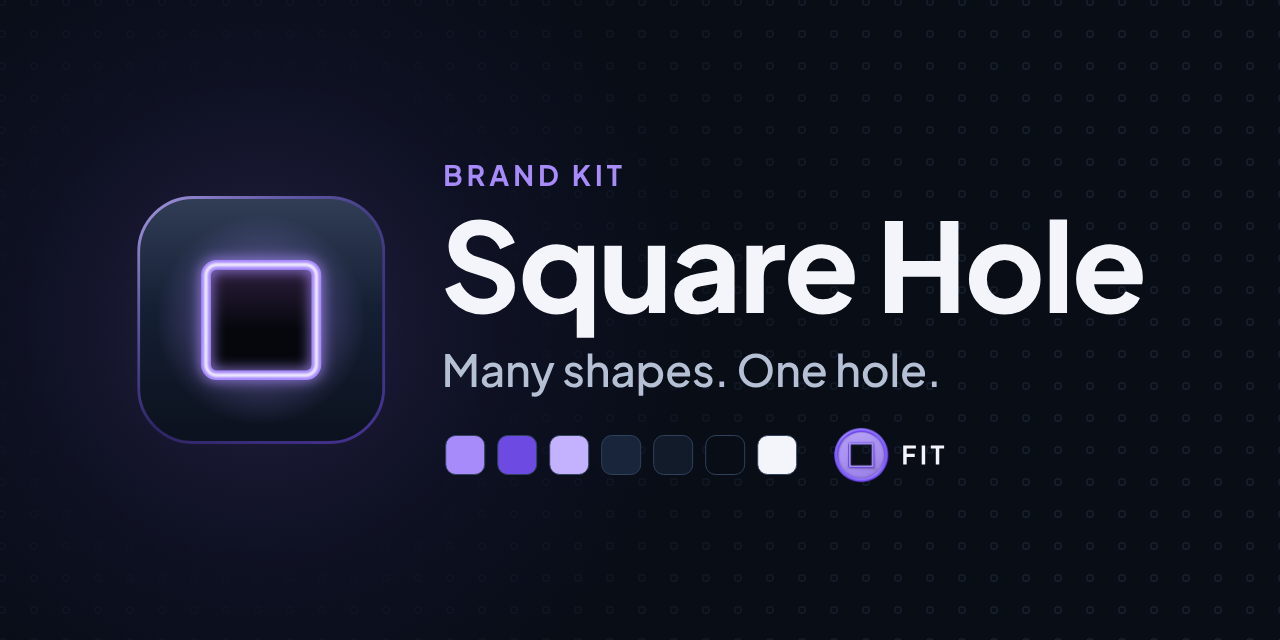
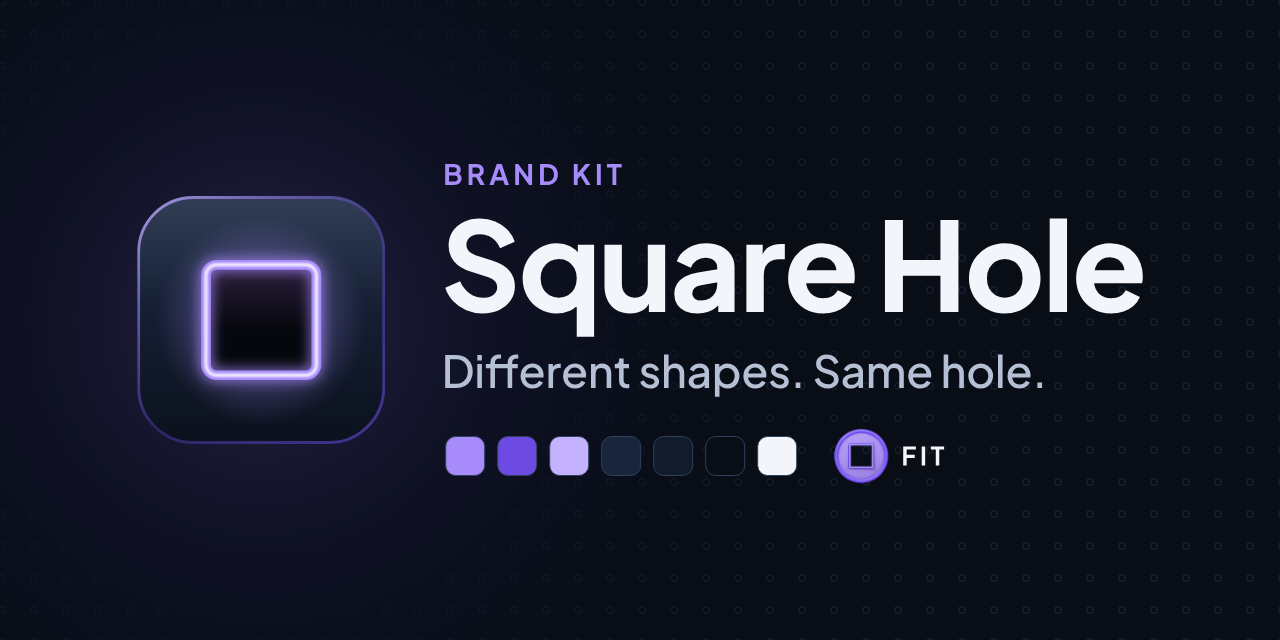
feat: one tagline, "Different shapes. Same hole."
Drops the alternate "Many shapes. One hole." from the brand guide, the notice,
the outlined text and the branding repo's social preview (re-rendered).

diff --git a/scripts/outline_text.py b/scripts/outline_text.py
@@ -41,7 +41,6 @@ FONT_SHA256 = "153fc85b70298beeb1d61a5f723331649e7f23bb77302a66e61cb3e2fbdb5e79"
 TEXTS = {
     "wordmark": ("Square Hole", 750, -0.02, ""),
     "tagline": ("Different shapes. Same hole.", 550, -0.005, ""),
-    "tagline-alt": ("Many shapes. One hole.", 550, -0.005, ""),
     "label-brand-kit": ("BRAND KIT", 700, 0.14, ""),
     "label-fit": ("FIT", 700, 0.14, ""),
     "domains": ("squarehole.fun · squarehole.xyz · squarehole.fit", 550, 0.0, "-liga,-dlig"),

diff --git a/README.md b/README.md
@@ -16,9 +16,7 @@ here may be used to refer to Square Hole; read [NOTICE.md](NOTICE.md) first. The
 - **Square Hole**: two words, capital S and H. Not "SquareHole", "Squarehole" or "SQUARE HOLE" in running text.
   Domains and handles are lower case: `squarehole.fun`, `squarehole.xyz`, `squarehole.fit`.
 - **FIT** is the token. Write "FIT"; "$FIT" only as a cashtag in running text, never on the icon.
-- Taglines, in sentence case with both full stops:
-  - **"Different shapes. Same hole."** (primary)
-  - **"Many shapes. One hole."** (alternate, for variety; do not use both in one place)
+- Tagline, in sentence case with both full stops: **"Different shapes. Same hole."** It is the only tagline.
 
 The joke is the brand: in the toy, only the cube belongs in the square hole, and here every shape goes in anyway.
 

diff --git a/NOTICE.md b/NOTICE.md
@@ -1,7 +1,7 @@
 # Notice: the Square Hole name and marks
 
-"Square Hole", the Square Hole mark (the rounded tile with the glowing square hole), the wordmark, the taglines
-"Different shapes. Same hole." and "Many shapes. One hole.", and the FIT token icon are the name and marks of the
+"Square Hole", the Square Hole mark (the rounded tile with the glowing square hole), the wordmark, the tagline
+"Different shapes. Same hole.", and the FIT token icon are the name and marks of the
 Square Hole project. They are **not registered** trademarks.
 
 **Using them to refer to Square Hole is welcome.** You may use the files in this repository, unchanged, to link to or
